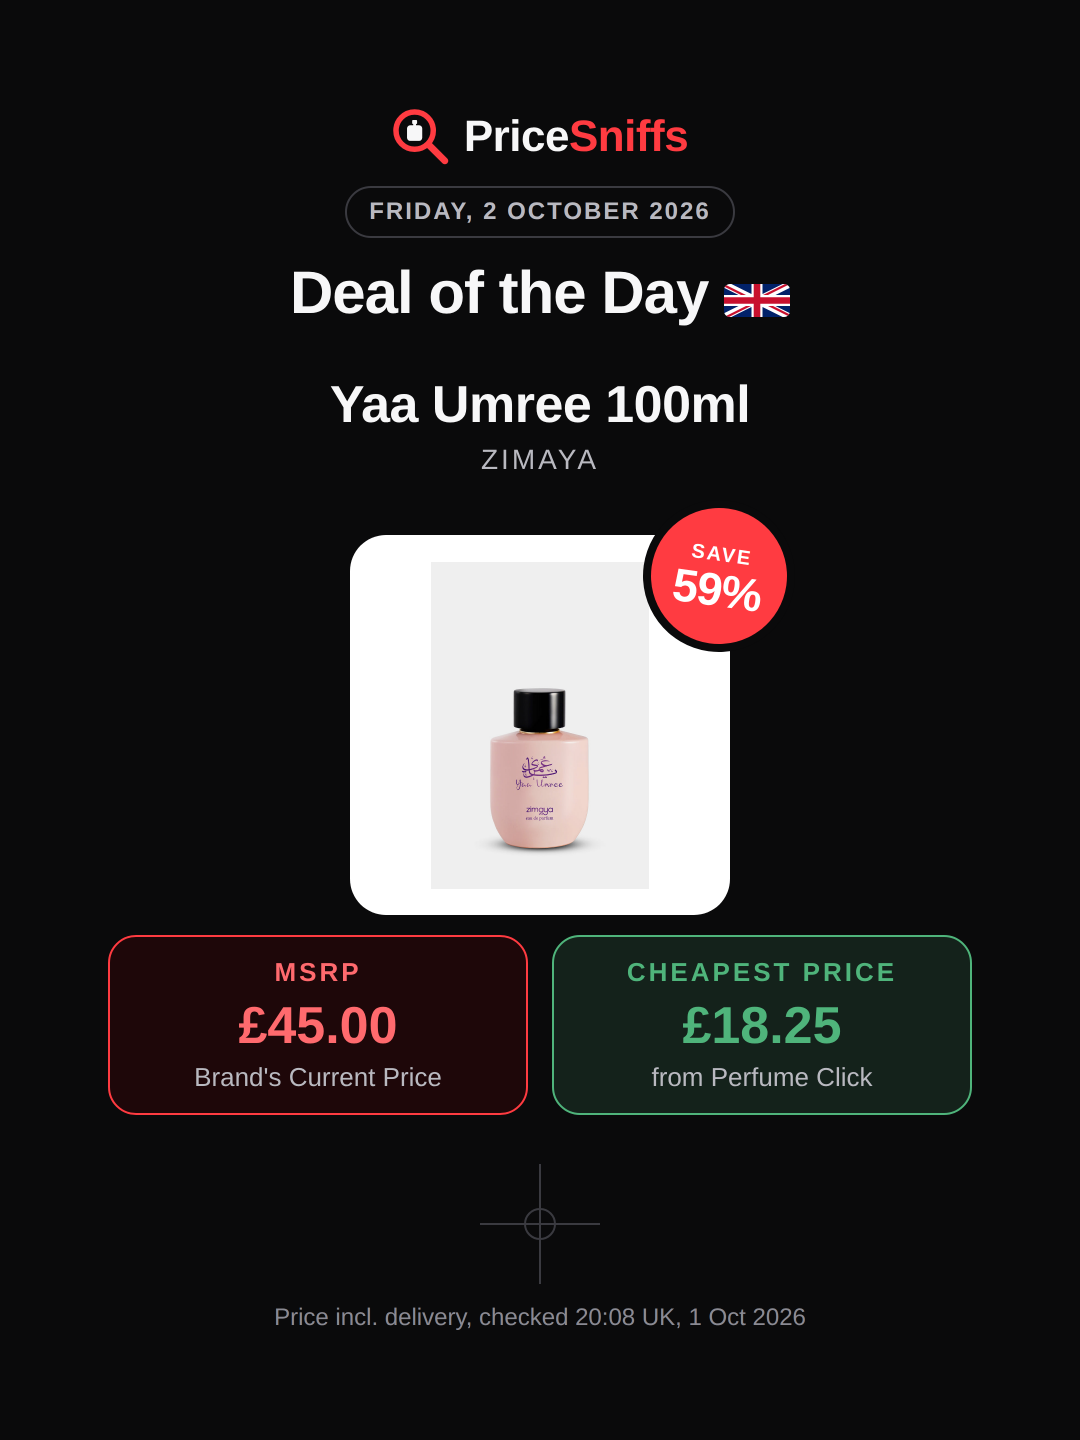
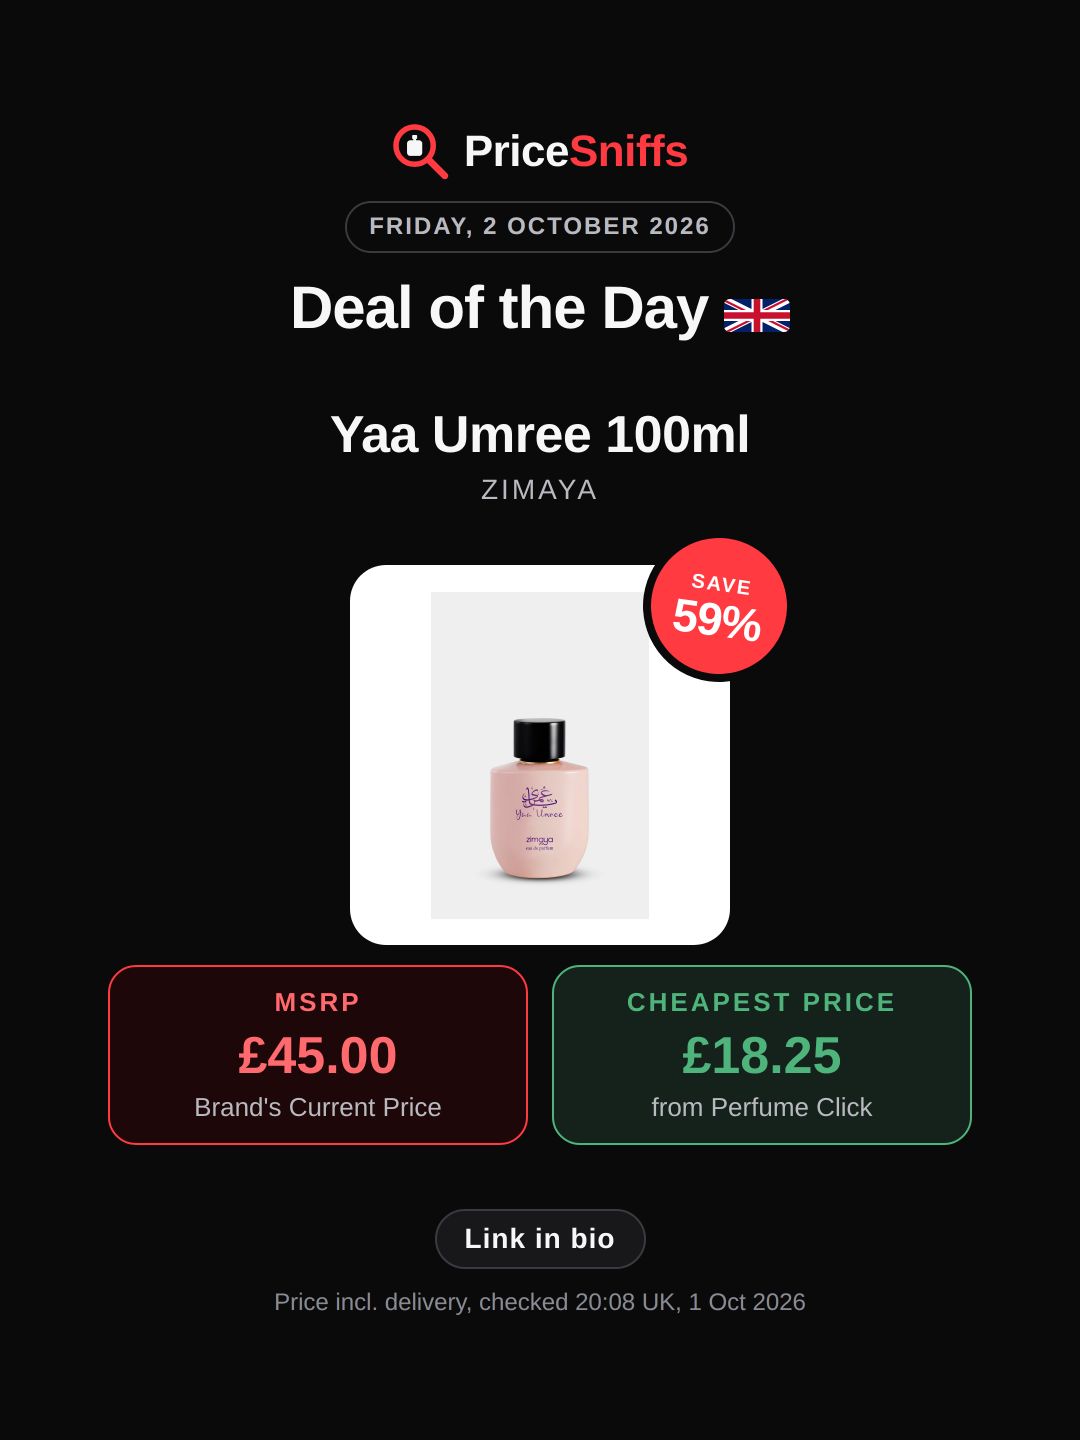
Social: stories carry a link sticker, feed posts carry the caption
9:16 stories need no caption; 3:4 feed posts do and show 'Link in bio'
instead of the sticker crosshair. Adds a 3:4 version of the launch post and
points both captions to the bio.

Claude-Session: https://claude.ai/code/session_01R3frsh37eDNrxM6REtigC8

diff --git a/scripts/social-deal-of-day.ts b/scripts/social-deal-of-day.ts
@@ -9,6 +9,8 @@
  *
  * Output: social/posts/YYYY-MM-DD-deal-of-the-day/ (post-9x16, post-3x4 and
  * notes-3x4 as .html/.png, caption.txt, check.json). Rules: social/DESIGN-SYSTEM.md.
+ * The 9:16 is a story (no caption, a link sticker goes on the crosshair); the
+ * two 3:4s are one feed post (a two picture carousel) and caption.txt is its caption.
  *
  *   --no-notes   show the notes card without notes (when they look wrong)
  *
@@ -145,6 +147,8 @@ interface Format {
   file: string; w: number; h: number; pad: number; gap: number;
   head: number; name: number; brand: number; date: number; photo: number; badge: number; amount: number;
   headline: (flag: string) => string;
+  /** Stories take a link sticker (crosshair marks the spot); feed posts cannot, so they say where the link is. */
+  linkMark: 'sticker' | 'bio';
 }
 export const FORMATS: Format[] = [
   // Story: stories cover the top and bottom 250px with their own bars.
@@ -152,12 +156,14 @@ export const FORMATS: Format[] = [
     file: 'post-9x16', w: 1080, h: 1920, pad: 250, gap: 28,
     head: 66, name: 58, brand: 32, date: 28, photo: 420, badge: 150, amount: 58,
     headline: (flag) => `Our Deal of the Day today is&hellip; ${flag}`,
+    linkMark: 'sticker',
   },
   // Feed: no bars to avoid, so the same layout sits tighter.
   {
     file: 'post-3x4', w: 1080, h: 1440, pad: 60, gap: 20,
     head: 60, name: 52, brand: 28, date: 24, photo: 380, badge: 136, amount: 52,
     headline: (flag) => `Deal of the Day ${flag}`,
+    linkMark: 'bio',
   },
 ];
 
@@ -204,6 +210,7 @@ export function postHtml(p: Pick, photo: string, dateLabel: string, checked: str
   .sticker::before { left: 59px; top: 0; width: 2px; height: 120px; }
   .sticker::after { top: 59px; left: 0; height: 2px; width: 120px; }
   .sticker i { position: absolute; left: 44px; top: 44px; width: 32px; height: 32px; border: 2px solid #3A3A40; border-radius: 50%; }
+  .bio { margin: 0; padding: 12px 28px; border-radius: 999px; background: #18181B; border: 2px solid #3A3A40; font-size: 28px; font-weight: 700; letter-spacing: 1px; }
   .checked { margin: 0; width: 100%; font-size: 24px; color: #8A8A93; white-space: nowrap; }
 </style></head><body><main>
   <div class="top">
@@ -223,7 +230,7 @@ export function postHtml(p: Pick, photo: string, dateLabel: string, checked: str
     </div>
   </div>
   <div class="bottom">
-    <div class="sticker" aria-hidden="true"><i></i></div>
+    ${f.linkMark === 'sticker' ? '<div class="sticker" aria-hidden="true"><i></i></div>' : '<p class="bio">Link in bio</p>'}
     <p class="checked" data-fit="1,16">Price incl. delivery, checked ${esc(checked)}</p>
   </div>
 </main>${FIT_SCRIPT}</body></html>`;
@@ -373,7 +380,7 @@ function caption(p: Pick, url: string, checked: string, dateLabel: string): stri
 
 ${name} by ${undash(p.frag.brand)} is ${gbp(p.delivered)} delivered from ${undash(p.best.retailer.name)}. The brand's own price is ${gbp(p.msrp)}, so you save ${p.percent}%.
 
-Price checked ${checked}. Prices move during the day, so check the link before you buy.
+Price checked ${checked}. Prices move during the day, so check before you buy. The link is in our bio, or go to
 ${url}
 
 #perfume #fragrance #perfumedeals #ukdeals #${brandTag} #pricesniffs

diff --git a/social/posts/2026-10-02-deal-of-the-day/post-3x4.html b/social/posts/2026-10-02-deal-of-the-day/post-3x4.html
@@ -39,6 +39,7 @@
   .sticker::before { left: 59px; top: 0; width: 2px; height: 120px; }
   .sticker::after { top: 59px; left: 0; height: 2px; width: 120px; }
   .sticker i { position: absolute; left: 44px; top: 44px; width: 32px; height: 32px; border: 2px solid #3A3A40; border-radius: 50%; }
+  .bio { margin: 0; padding: 12px 28px; border-radius: 999px; background: #18181B; border: 2px solid #3A3A40; font-size: 28px; font-weight: 700; letter-spacing: 1px; }
   .checked { margin: 0; width: 100%; font-size: 24px; color: #8A8A93; white-space: nowrap; }
 </style></head><body><main>
   <div class="top">
@@ -58,7 +59,7 @@
     </div>
   </div>
   <div class="bottom">
-    <div class="sticker" aria-hidden="true"><i></i></div>
+    <p class="bio">Link in bio</p>
     <p class="checked" data-fit="1,16">Price incl. delivery, checked 20:08 UK, 1 Oct 2026</p>
   </div>
 </main><script>

diff --git a/social/posts/2026-10-02-deal-of-the-day/post-9x16.html b/social/posts/2026-10-02-deal-of-the-day/post-9x16.html
@@ -39,6 +39,7 @@
   .sticker::before { left: 59px; top: 0; width: 2px; height: 120px; }
   .sticker::after { top: 59px; left: 0; height: 2px; width: 120px; }
   .sticker i { position: absolute; left: 44px; top: 44px; width: 32px; height: 32px; border: 2px solid #3A3A40; border-radius: 50%; }
+  .bio { margin: 0; padding: 12px 28px; border-radius: 999px; background: #18181B; border: 2px solid #3A3A40; font-size: 28px; font-weight: 700; letter-spacing: 1px; }
   .checked { margin: 0; width: 100%; font-size: 24px; color: #8A8A93; white-space: nowrap; }
 </style></head><body><main>
   <div class="top">

diff --git a/social/DESIGN-SYSTEM.md b/social/DESIGN-SYSTEM.md
@@ -87,7 +87,13 @@ Add new templates (for example 1080 x 1350 for an Instagram feed post) to
 
 ## 5. Words
 
-These apply to all post copy: the image text and the caption.
+**Stories and posts:** a 9:16 picture is a **story**. It has no caption; its
+link goes on a link sticker. A 3:4 picture is a feed **post**. It needs a
+caption (`caption.txt` in the post's folder), and since feed posts cannot hold
+a clickable link, the picture says "Link in bio" and the caption points there
+too.
+
+These rules apply to all post copy: the image text and the caption.
 
 1. **No hyphens and no dashes of any kind** (no `-`, no `–`, no `—`). Use a
    full stop, a comma or a new sentence instead. `tests/socialPosts.test.ts`
@@ -137,8 +143,9 @@ different one.
    badge on its corner: "SAVE 59%"
 6. The red MSRP box and the green cheapest price box, exactly as the product
    page shows them
-7. A faint centre crosshair marking where the link sticker goes. **No web
-   address on the image.** The link goes on the sticker and in the caption.
+7. Where the link goes. **No web address on the image.**
+   * 9:16 story: a faint centre crosshair marking where the link sticker goes
+   * 3:4 post: a small "Link in bio" pill (feed posts cannot hold stickers)
 8. When the price was checked, in small grey
 
 **The scent profile picture** (`notes-3x4.png`, same wordmark, date pill and
@@ -169,6 +176,11 @@ confirmed. A perfume is never posted twice: if the top deal has been posted
 before, it moves on to the next deal down (`social/deal-of-the-day-history.json`).
 The link is checked on the live site before anything is written.
 
-**Every run reports** the perfume, prices and saving, and gives the product
-link as a plain https address in a copyable box, ready to paste into the
-link sticker.
+**How it is posted:** the 9:16 goes up as a story with the link sticker on
+the crosshair (no caption). The two 3:4 pictures go up together as one feed
+post (a carousel: deal first, then the scent profile) with `caption.txt` as
+its caption.
+
+**Every run reports** the perfume, prices and saving, gives the product link
+as a plain https address in a copyable box for the story's link sticker, and
+gives the feed post caption in its own copyable box.

diff --git a/social/README.md b/social/README.md
@@ -6,7 +6,7 @@ Everything for PriceSniffs social media posts.
 |---|---|
 | `DESIGN-SYSTEM.md` | Colours, type, logo, layouts and wording rules. Read this first. |
 | `templates/` | Blank layouts to copy for a new post. Vertical 9:16 is the default |
-| `posts/` | One folder per post, named `YYYY-MM-DD-short-name`, holding the SVG source, the rendered PNG and `caption.txt` |
+| `posts/` | One folder per day's set, named `YYYY-MM-DD-short-name`: 9:16 stories (no caption, link sticker), 3:4 feed posts and `caption.txt` (the feed post's caption) |
 | `fonts/` | Liberation Sans, the logo's font, with its licence |
 
 Deal of the Day posts are made automatically every day at 12:00 UK
@@ -21,5 +21,5 @@ What to post, where and when: `docs/SOCIAL-MEDIA-PLAN.md`.
 
 | Date | Folder | Post |
 |---|---|---|
-| 2026-10-01 | `posts/2026-10-01-launch-welcome/` | Launch: "Welcome to the Page" (vertical 9:16) |
+| 2026-10-01 | `posts/2026-10-01-launch-welcome/` | Launch: "Welcome to the Page" (9:16 story, 3:4 post) |
 | 2026-10-02 | `posts/2026-10-02-deal-of-the-day/` | Deal of the Day: Zimaya Yaa Umree (9:16 and 3:4) |
